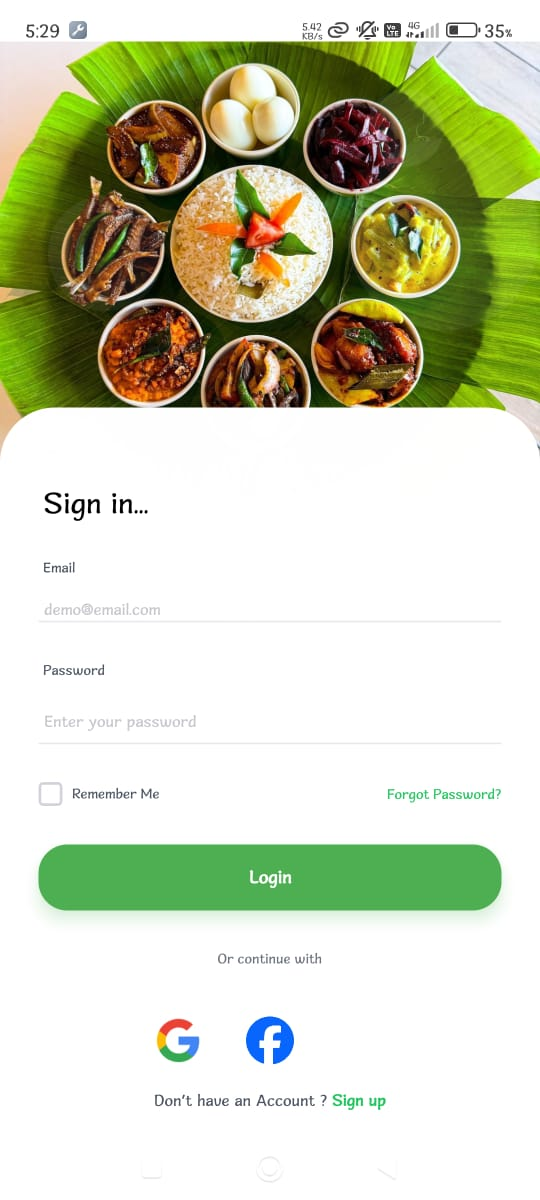
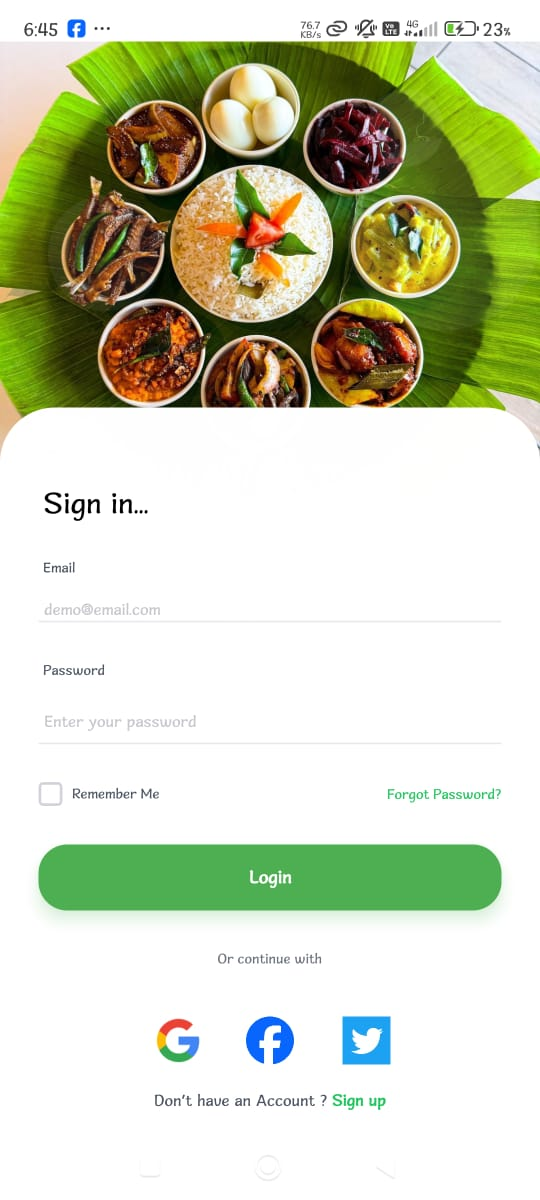
add YouTube video link in README.md file

Changed region(s): [[0.563, 0.0, 0.9481, 0.0308], [0.6222, 0.8325, 0.7407, 0.8942], [0.0296, 0.0, 0.1778, 0.0308]]

diff --git a/app/(auth)/login.tsx b/app/(auth)/login.tsx
@@ -215,19 +215,19 @@ const LoginScreen = () => {
 
                         {/* Twitter Login */}
                         <TouchableOpacity
-                            className="w-14 h-14 rounded-full justify-center items-center"
+                            className="w-14 h-14 rounded-full justify-center items-center left-6"
                             onPress={() => {
                                 Alert.alert(
-                                    "Twitter Login",
-                                    "Twitter login functionality will be implemented here"
+                                    "Facebook Login",
+                                    "Facebook login functionality will be implemented here"
                                 );
                             }}
                         >
                             <Image
                                 source={{
-                                    uri: "https://i.pinimg.com/736x/98/0f/96/980f96304edcd0b16ed3b579d81c7a9e.jpg",
+                                    uri: "https://i.pinimg.com/736x/77/f1/0e/77f10efe301b3ba26b62d50e61fdb10a.jpg",
                                 }}
-                                className="w-13 h-13"
+                                className="w-10 h-10"
                                 resizeMode="contain"
                             />
                         </TouchableOpacity>

diff --git a/README.md b/README.md
@@ -58,7 +58,7 @@ TasteLanka is a mobile application built with **React Native** that provides aut
 ---
 
 ## Demonstration Video
-Watch the full demonstration here: [YouTube Demo](https://www.youtube.com/watch?v=your-demo-link)
+Watch the full demonstration here: [YouTube Demo](https://youtu.be/Y-sX6inW_sI?si=NS4ldMT4mT4MV30a)
 
 ---
 
